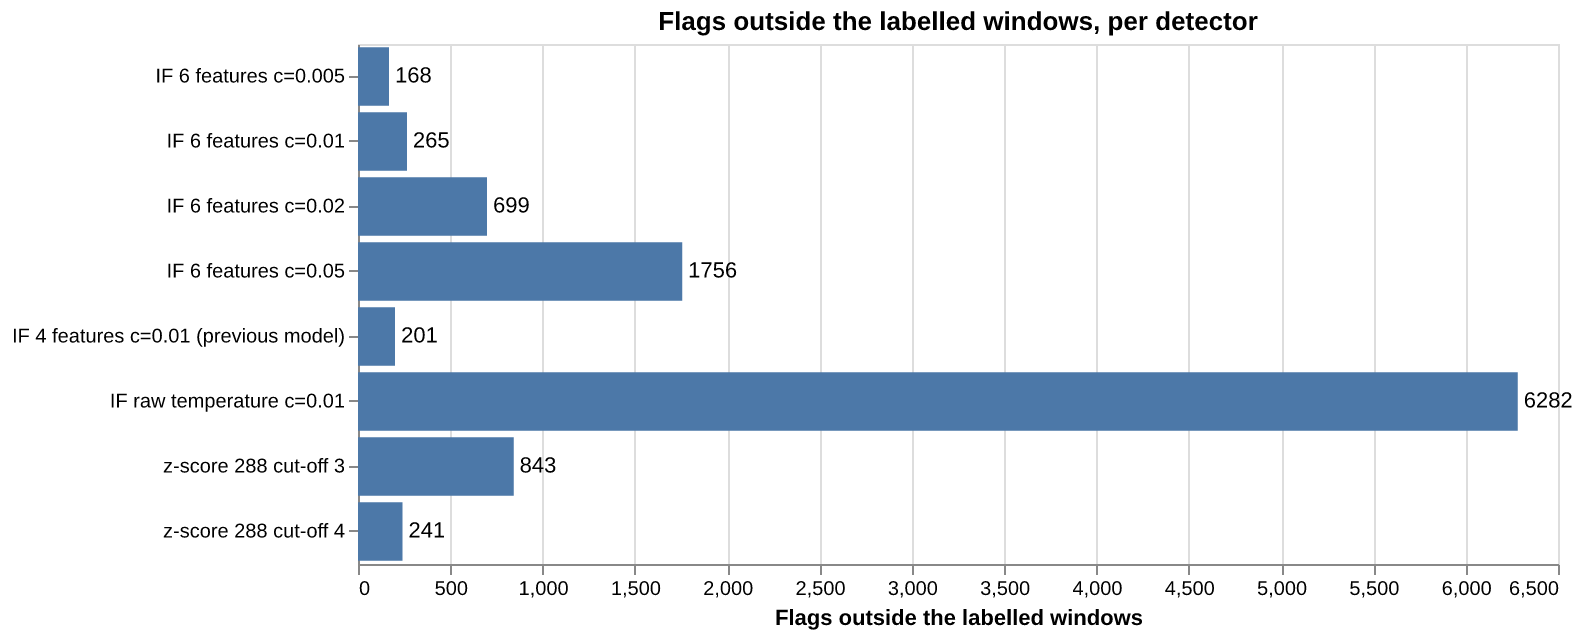
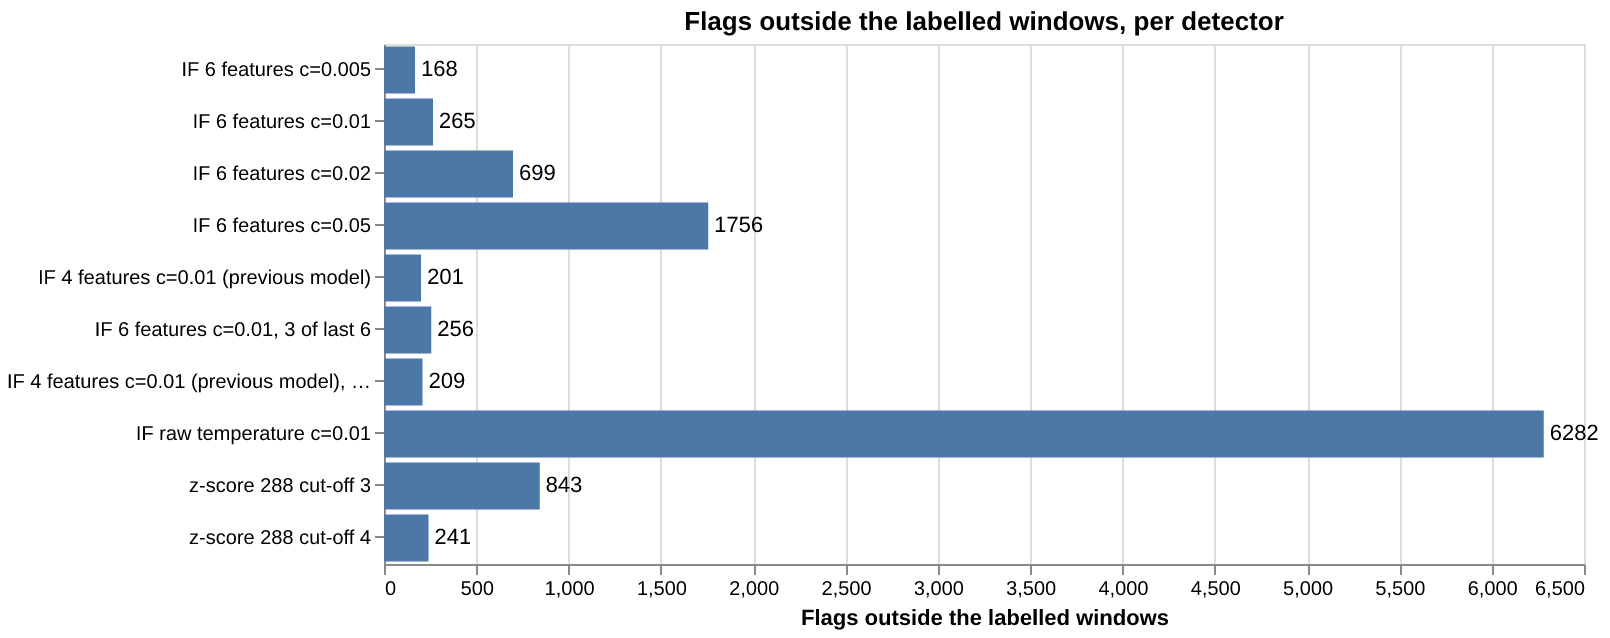
feat(evaluation): count flag episodes and the sustained-alert rule
Adds a flag_episodes column and rows for both c=0.01 models counted
only as sustained alerts (3 of the last 6 flagged). They show that the
6-feature model's early catch of window 4 is single near-threshold flags
(2,705 min late as a sustained alert), while its gains in flags inside
the windows (123 vs 82) and window 2 (155 vs 1,320 min) remain.

diff --git a/scripts/evaluate.py b/scripts/evaluate.py
@@ -6,6 +6,9 @@ RollingFeatures from a cold start), and several detectors are compared:
   - IsolationForest on the 6 features at contamination 0.005, 0.01, 0.02, 0.05
     (0.01 is the model the pipeline uses)
   - the previous model: IsolationForest on the 4 one-hour features only, 0.01
+  - both models with the dashboard's sustained-alert rule: a reading counts only
+    when at least 3 of the last 6 readings are flagged (single flags near the
+    cut-off are dropped)
   - IsolationForest on raw temperature only (the course guide's approach)
   - a no-ML baseline: rolling z-score against the previous 288 readings (24 h)
 A flag outside a labelled window is unlabelled, not proven false.
@@ -30,6 +33,7 @@ import joblib  # noqa: E402
 import pandas as pd  # noqa: E402
 from sklearn.ensemble import IsolationForest  # noqa: E402
 
+from dashboard.model_labels import alert_states  # noqa: E402
 from src import config, train_model  # noqa: E402
 from src.features import FEATURE_NAMES, WINDOW_SIZE, RollingFeatures, model_row  # noqa: E402
 
@@ -126,6 +130,11 @@ def score_against_windows(times, flags, windows):
     }
 
 
+def flag_episodes(flags):
+    """How many separate runs of flagged readings there are (a flag after a normal reading starts one)."""
+    return sum(1 for i, f in enumerate(flags) if f and (i == 0 or not flags[i - 1]))
+
+
 def markdown_table(df):
     """A pandas DataFrame as a Markdown table (no extra library needed)."""
     lines = ["| " + " | ".join(df.columns) + " |", "| " + " | ".join("---" for _ in df.columns) + " |"]
@@ -175,6 +184,10 @@ def main():
         detectors.append((f"IF 6 features c={c}", "rows 12-1999", isolation_forest_flags(train_rows, stream_rows, c)))
     detectors.append(("IF 4 features c=0.01 (previous model)", "rows 12-1999",
                       isolation_forest_flags(previous_train, previous_stream, 0.01)))
+    # The dashboard's sustained-alert rule applied to the two c=0.01 models.
+    detectors.append(("IF 6 features c=0.01, 3 of last 6", "rows 12-1999", alert_states(detectors[1][2])))
+    detectors.append(("IF 4 features c=0.01 (previous model), 3 of last 6", "rows 12-1999",
+                      alert_states(detectors[4][2])))
     detectors.append(("IF raw temperature c=0.01", "rows 12-1999",
                       isolation_forest_flags(raw_train, [[t] for t in temperatures], 0.01)))
     for cutoff in (3, 4):
@@ -193,7 +206,8 @@ def main():
             "model": name, "trained_on": trained_on,
             "stream_flagged_pct": round(score["flagged_pct"], 2),
             "windows_hit": f"{score['windows_hit']} of {len(windows)}",
-            "flags": score["flags"], "flags_inside": score["inside"], "flags_outside": score["outside"],
+            "flags": score["flags"], "flag_episodes": flag_episodes(flags),
+            "flags_inside": score["inside"], "flags_outside": score["outside"],
             **{f"delay_w{i}_min": d for i, d in enumerate(score["delays_min"], start=1)},
         })
     table = pd.DataFrame(rows)

diff --git a/tests/test_evaluate.py b/tests/test_evaluate.py
@@ -67,3 +67,9 @@ def test_zscore_never_flags_against_a_flat_history():
     # A flat history has std 0, so z is undefined: no flag.
     temps = [10, 10, 10, 10, 50]
     assert evaluate.zscore_flags(temps, cutoff=3, history=4) == [0, 0, 0, 0, 0]
+
+
+def test_flag_episodes_counts_runs_of_flags():
+    # Three runs: [1], [1, 1, 1] and [1].
+    assert evaluate.flag_episodes([1, 0, 0, 1, 1, 1, 0, 1]) == 3
+    assert evaluate.flag_episodes([0, 0, 0]) == 0

diff --git a/report/results.md b/report/results.md
@@ -1,6 +1,6 @@
 # Results
 
-Generated by `python scripts/collect_results.py` on 2026-10-15 14:51 UTC, from the state
+Generated by `python scripts/collect_results.py` on 2026-10-15 16:22 UTC, from the state
 left by one full replay on a reset system: `python scripts/reset_demo.py`, then the processor and the forecaster, then
 `python -m src.producer --rate 200` (dashboard closed). Every number below is read from MySQL, Kafka, the saved model
 or `report/evaluation.csv` by that script.
@@ -38,7 +38,7 @@ or `report/evaluation.csv` by that script.
 ## Pipeline lag (stored_at minus produced_at, per reading, at --rate 200)
 | Average | Median | 95th percentile | Maximum |
 | --- | --- | --- | --- |
-| 82.3 ms | 85 ms | 124 ms | 183 ms |
+| 52.5 ms | 52 ms | 75 ms | 173 ms |
 
 ## Consumer groups (committed offset vs 20,695 events on the topic)
 | Group | Committed offset | Lag |
@@ -59,13 +59,15 @@ or `report/evaluation.csv` by that script.
 - Training rows the saved model flags: 20 (1.01%).
 
 ## Model comparison (from `python scripts/evaluate.py`, report/evaluation.csv)
-| model | trained_on | stream_flagged_pct | windows_hit | flags | flags_inside | flags_outside | delay_w1_min | delay_w2_min | delay_w3_min | delay_w4_min |
-| --- | --- | --- | --- | --- | --- | --- | --- | --- | --- | --- |
-| IF 6 features c=0.005 | rows 12-1999 | 1.33 | 4 of 4 | 276 | 108 | 168 | 965 | 150 | 210 | 65 |
-| IF 6 features c=0.01 | rows 12-1999 | 2.06 | 4 of 4 | 426 | 161 | 265 | 965 | 145 | 210 | 0 |
-| IF 6 features c=0.02 | rows 12-1999 | 6.05 | 4 of 4 | 1252 | 553 | 699 | 0 | 135 | 205 | 0 |
-| IF 6 features c=0.05 | rows 12-1999 | 13.5 | 4 of 4 | 2792 | 1036 | 1756 | 0 | 120 | 190 | 0 |
-| IF 4 features c=0.01 (previous model) | rows 12-1999 | 1.37 | 4 of 4 | 284 | 83 | 201 | 975 | 165 | 210 | 2695 |
-| IF raw temperature c=0.01 | rows 12-1999 | 36.46 | 4 of 4 | 7541 | 1259 | 6282 | 0 | 0 | 1365 | 25 |
-| z-score 288 cut-off 3 | no training | 4.65 | 4 of 4 | 961 | 118 | 843 | 1035 | 100 | 0 | 2700 |
-| z-score 288 cut-off 4 | no training | 1.47 | 2 of 4 | 304 | 63 | 241 |  | 100 |  | 2700 |
+| model | trained_on | stream_flagged_pct | windows_hit | flags | flag_episodes | flags_inside | flags_outside | delay_w1_min | delay_w2_min | delay_w3_min | delay_w4_min |
+| --- | --- | --- | --- | --- | --- | --- | --- | --- | --- | --- | --- |
+| IF 6 features c=0.005 | rows 12-1999 | 1.33 | 4 of 4 | 276 | 79 | 108 | 168 | 965 | 150 | 210 | 65 |
+| IF 6 features c=0.01 | rows 12-1999 | 2.06 | 4 of 4 | 426 | 144 | 161 | 265 | 965 | 145 | 210 | 0 |
+| IF 6 features c=0.02 | rows 12-1999 | 6.05 | 4 of 4 | 1252 | 266 | 553 | 699 | 0 | 135 | 205 | 0 |
+| IF 6 features c=0.05 | rows 12-1999 | 13.5 | 4 of 4 | 2792 | 453 | 1036 | 1756 | 0 | 120 | 190 | 0 |
+| IF 4 features c=0.01 (previous model) | rows 12-1999 | 1.37 | 4 of 4 | 284 | 51 | 83 | 201 | 975 | 165 | 210 | 2695 |
+| IF 6 features c=0.01, 3 of last 6 | rows 12-1999 | 1.83 | 4 of 4 | 379 | 40 | 123 | 256 | 975 | 155 | 235 | 2705 |
+| IF 4 features c=0.01 (previous model), 3 of last 6 | rows 12-1999 | 1.41 | 4 of 4 | 291 | 27 | 82 | 209 | 985 | 1320 | 235 | 2705 |
+| IF raw temperature c=0.01 | rows 12-1999 | 36.46 | 4 of 4 | 7541 | 434 | 1259 | 6282 | 0 | 0 | 1365 | 25 |
+| z-score 288 cut-off 3 | no training | 4.65 | 4 of 4 | 961 | 173 | 118 | 843 | 1035 | 100 | 0 | 2700 |
+| z-score 288 cut-off 4 | no training | 1.47 | 2 of 4 | 304 | 39 | 63 | 241 |  | 100 |  | 2700 |
